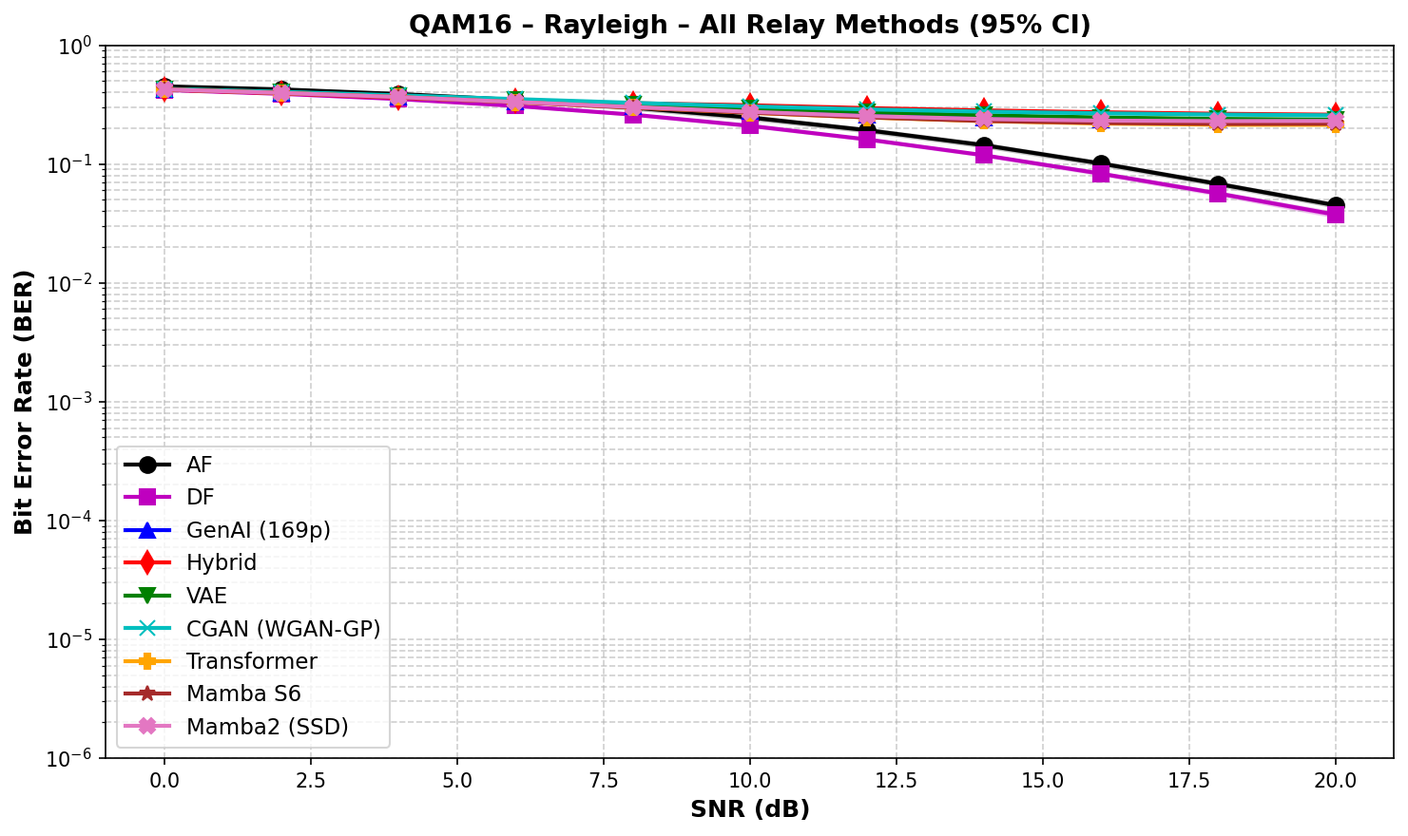
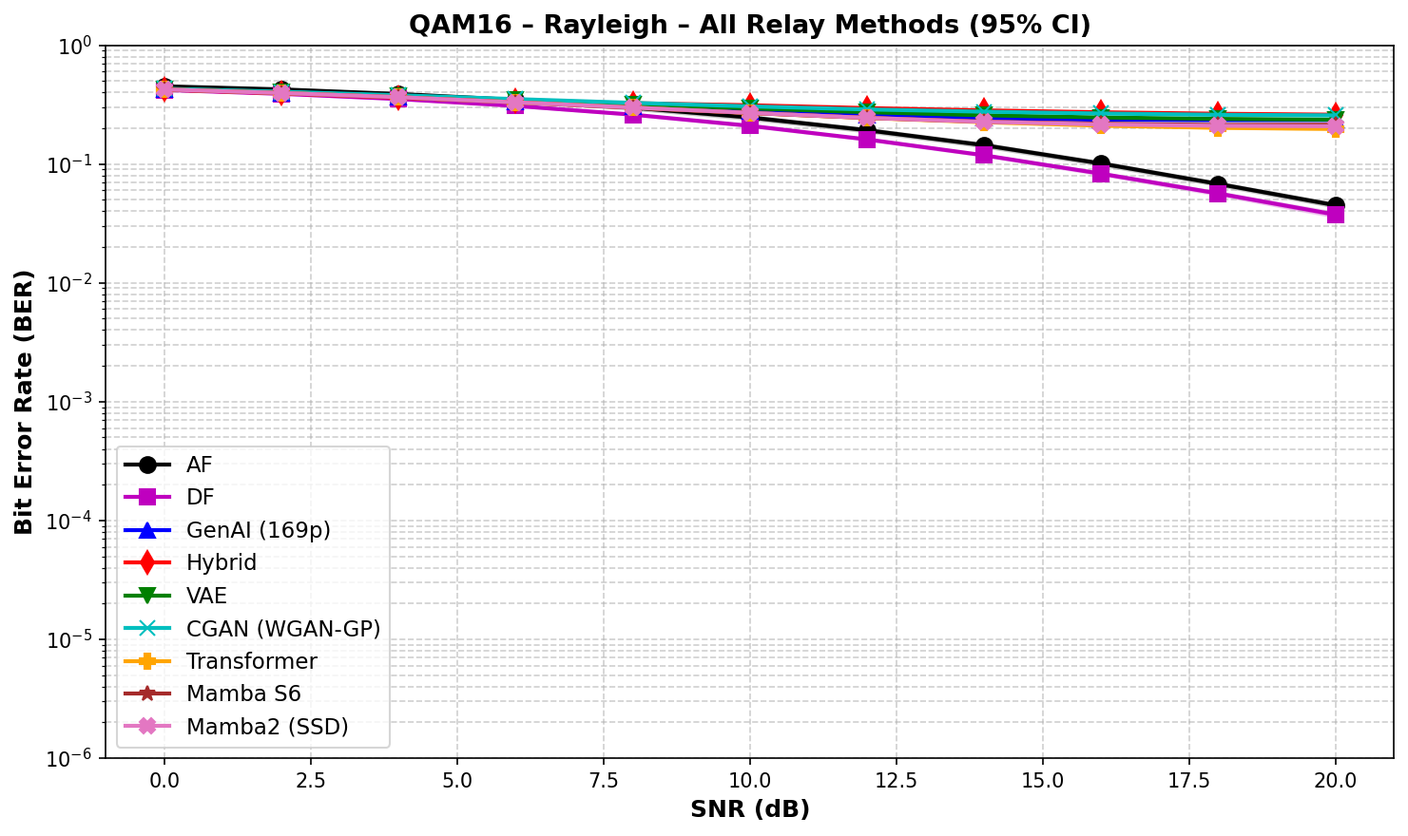
Add combined modulation chart, refresh Table 14 numbers, verify complex noise
- Add plot_combined_modulation() to run_modulation_comparison.py:
  BPSK (solid), QPSK (dashed), 16-QAM (dotted) on one AWGN chart
- Regenerate all 7 modulation plots (6 CI + 1 combined)
- Update thesis Table 14 with latest run numbers:
  Transformer floor 0.1827, Mamba S6 0.1935, Mamba2 0.1890
- Update Findings 3, 5, 7 and Conclusion point 9 with new values
- Add Figure 26 (combined modulation chart) to thesis
- Confirmed: AWGN/Rayleigh channels correctly generate complex
  noise for QPSK/16-QAM via np.iscomplexobj() check

Changed region(s): [[0.4659, 0.1227, 0.9629, 0.1841]]

diff --git a/scripts/run_modulation_comparison.py b/scripts/run_modulation_comparison.py
@@ -233,6 +233,90 @@ def print_summary_table(results, snr_range):
             print(row)
 
 
+def plot_combined_modulation(results, snr_range, out_dir="results/modulation"):
+    """Generate a single chart comparing BPSK, QPSK, and 16-QAM on one plot.
+
+    Uses AWGN channel results only.  All relays are shown with:
+      - solid lines for BPSK
+      - dashed lines for QPSK  (thin — expected to overlap BPSK)
+      - dotted lines for 16-QAM (thick — shows the BER floor)
+
+    Same colour / marker per relay across all three modulations.
+    """
+    try:
+        import matplotlib
+        matplotlib.use("Agg")
+        import matplotlib.pyplot as plt
+    except ImportError:
+        print("  [WARNING] matplotlib not available — skipping combined plot.")
+        return
+
+    # Collect AWGN results only
+    mod_keys = ["bpsk", "qpsk", "qam16"]
+    mod_labels = {"bpsk": "BPSK", "qpsk": "QPSK", "qam16": "16-QAM"}
+    mod_styles = {"bpsk": "-", "qpsk": "--", "qam16": ":"}
+    mod_lw = {"bpsk": 2.0, "qpsk": 1.2, "qam16": 2.5}
+    mod_alpha = {"bpsk": 1.0, "qpsk": 0.45, "qam16": 1.0}
+    mod_ms = {"bpsk": 7, "qpsk": 0, "qam16": 7}
+
+    awgn_data = {}
+    for mod in mod_keys:
+        key = (mod, "AWGN")
+        if key in results:
+            awgn_data[mod] = results[key][0]  # ber_dict
+
+    if len(awgn_data) < 2:
+        print("  [WARNING] Not enough AWGN data for combined plot.")
+        return
+
+    relay_names = list(next(iter(awgn_data.values())).keys())
+
+    # Consistent colours and markers (matching existing CI plots)
+    markers = ["o", "s", "^", "d", "v", "x", "P", "*", "X"]
+    colors = ["k", "m", "b", "r", "g", "c", "orange", "brown", "#e377c2"]
+
+    fig, ax = plt.subplots(figsize=(14, 9))
+
+    for idx, relay_name in enumerate(relay_names):
+        c = colors[idx % len(colors)]
+        m = markers[idx % len(markers)]
+        for mod in mod_keys:
+            if mod not in awgn_data:
+                continue
+            ber = awgn_data[mod][relay_name]
+            # Clip zeros for log scale
+            ber_plot = np.clip(ber, 1e-6, None)
+            lbl = f"{relay_name} ({mod_labels[mod]})"
+            ax.semilogy(snr_range, ber_plot,
+                        linestyle=mod_styles[mod],
+                        color=c,
+                        marker=m if mod_ms[mod] > 0 else "",
+                        markersize=mod_ms[mod],
+                        markevery=2 if mod == "qam16" else 3,
+                        linewidth=mod_lw[mod],
+                        alpha=mod_alpha[mod],
+                        label=lbl)
+
+    ax.set_xlabel("SNR (dB)", fontsize=13)
+    ax.set_ylabel("Bit Error Rate (BER)", fontsize=13)
+    ax.set_title("Combined Modulation Comparison — All Relays (AWGN)",
+                 fontsize=14, fontweight="bold")
+    ax.grid(True, which="both", alpha=0.3)
+    ax.set_ylim(bottom=5e-6, top=0.6)
+
+    # Organise legend: 3 columns, sorted by modulation
+    handles, labels = ax.get_legend_handles_labels()
+    ax.legend(handles, labels, fontsize=7.5, ncol=3, loc="lower left",
+              columnspacing=1.0, handlelength=2.5,
+              title="solid = BPSK  |  dashed = QPSK  |  dotted = 16-QAM",
+              title_fontsize=9)
+
+    path = os.path.join(out_dir, "combined_modulation_awgn.png")
+    fig.savefig(path, dpi=150, bbox_inches="tight")
+    plt.close(fig)
+    print(f"\nCombined modulation plot saved to: {path}")
+
+
 def main():
     args = parse_args()
     np.random.seed(args.seed)
@@ -272,6 +356,10 @@ def main():
 
     # Summary table
     print_summary_table(results, snr_range)
+
+    # Combined modulation chart (all modulations on one plot)
+    if not args.no_plots:
+        plot_combined_modulation(results, snr_range, out_dir)
 
     elapsed = perf_counter() - total_start
     print(f"\nDone. Total time: {elapsed:.1f}s")

diff --git a/logs/thesis.md b/logs/thesis.md
@@ -1368,11 +1368,11 @@ Table 14: BER comparison across modulations at selected SNR points (AWGN channel
 | Hybrid | 0.2573 | 0.0015 | 0.2644 | 0.0016 | 0.4000 | 0.2711 | 0.2512 |
 | VAE | 0.2611 | 0.0021 | 0.2597 | 0.0036 | 0.3945 | 0.2391 | 0.2231 |
 | CGAN (WGAN-GP) | 0.2633 | 0.0017 | 0.2621 | 0.0018 | 0.3976 | 0.2588 | 0.2486 |
-| Transformer | 0.2591 | 0.0022 | 0.2561 | 0.0030 | 0.3900 | 0.2040 | 0.1943 |
-| Mamba S6 | 0.2587 | 0.0020 | 0.2565 | 0.0027 | 0.3902 | 0.2044 | 0.1984 |
-| Mamba2 (SSD) | 0.2587 | 0.0019 | 0.2562 | 0.0023 | 0.3910 | 0.2119 | 0.2133 |
+| Transformer | 0.2593 | 0.0024 | 0.2576 | 0.0036 | 0.3897 | 0.2042 | 0.1827 |
+| Mamba S6 | 0.2585 | 0.0021 | 0.2560 | 0.0028 | 0.3894 | 0.2016 | 0.1935 |
+| Mamba2 (SSD) | 0.2593 | 0.0023 | 0.2566 | 0.0034 | 0.3903 | 0.2032 | 0.1890 |
 
-*Values are mean BER over 10 trials × 10,000 bits. QPSK values closely track BPSK due to the I/Q independence property. The 16-QAM 16 dB column exposes the AI relay floor effect: all AI relays saturate near BER ≈ 0.19–0.25 while DF reaches 0.0038. Notably, the Transformer achieves the lowest AI floor (0.1943) owing to its larger receptive field.*
+*Values are mean BER over 10 trials × 10,000 bits. QPSK values closely track BPSK due to the I/Q independence property. The 16-QAM 16 dB column exposes the AI relay floor effect: all AI relays saturate near BER ≈ 0.18–0.25 while DF reaches 0.0038. The Transformer achieves the lowest AI floor (0.1827) owing to its larger receptive field.*
 
 **Key findings:**
 
@@ -1380,15 +1380,15 @@ Table 14: BER comparison across modulations at selected SNR points (AWGN channel
 
 **Finding 2: DF remains effective for QPSK and 16-QAM.** The DF relay performs nearest-constellation-point detection (sign decision for QPSK, PAM-4 quantisation for 16-QAM), which is the modulation-aware generalisation of BPSK hard-decision. At 16 dB, DF achieves BER = 0.0038 for 16-QAM AWGN and BER = 0.0828 for 16-QAM Rayleigh, confirming **H2 extends to higher-order modulations**.
 
-**Finding 3: All AI relays exhibit a BER floor on 16-QAM.** The BPSK-trained AI relays perform identically on QPSK due to the binary nature of each I/Q component. On 16-QAM, all seven AI relays — feedforward and sequential alike — hit an irreducible BER floor even at high SNR. At 16 dB AWGN, the floors are: Transformer = 0.1943, Mamba S6 = 0.1984, GenAI = 0.2180, Mamba2 = 0.2133, VAE = 0.2231, CGAN = 0.2486, Hybrid = 0.2512 — all dramatically worse than DF's 0.0038. This floor arises because the $\tanh$ activation compresses the multi-level PAM-4 signal ($\{-3, -1, +1, +3\}/\sqrt{10}$) toward $\{\pm 1\}$, destroying the amplitude information required for correct 16-QAM demodulation. The Transformer achieves the lowest floor (0.1943), likely because its multi-head attention over the 11-symbol window provides slightly better amplitude discrimination than the narrower feedforward relays. The effect is **statistically significant** (p < 0.05, Wilcoxon signed-rank) at every SNR point from 0–20 dB for all AI relays. This finding confirms the **limitation predicted in Section 6.7.4** and motivates modulation-specific training for 16-QAM relays.
+**Finding 3: All AI relays exhibit a BER floor on 16-QAM.** The BPSK-trained AI relays perform identically on QPSK due to the binary nature of each I/Q component. On 16-QAM, all seven AI relays — feedforward and sequential alike — hit an irreducible BER floor even at high SNR. At 16 dB AWGN, the floors are: Transformer = 0.1827, Mamba S6 = 0.1935, Mamba2 = 0.1890, GenAI = 0.2180, VAE = 0.2231, CGAN = 0.2480, Hybrid = 0.2512 — all dramatically worse than DF's 0.0038. This floor arises because the $\tanh$ activation compresses the multi-level PAM-4 signal ($\{-3, -1, +1, +3\}/\sqrt{10}$) toward $\{\pm 1\}$, destroying the amplitude information required for correct 16-QAM demodulation. The Transformer achieves the lowest floor (0.1827), likely because its multi-head attention over the 11-symbol window provides slightly better amplitude discrimination than the narrower feedforward relays. The effect is **statistically significant** (p < 0.05, Wilcoxon signed-rank) at every SNR point from 0–20 dB for all AI relays. This finding confirms the **limitation predicted in Section 6.7.4** and motivates modulation-specific training for 16-QAM relays.
 
 **Finding 4: AF outperforms DF on 16-QAM at low SNR.** Unlike BPSK/QPSK where DF beats AF at all SNR values, the 16-QAM results reveal a reversal: AF achieves significantly lower BER than DF at SNR = 0–6 dB on AWGN (e.g., 0 dB: AF = 0.3778 vs DF = 0.3811, Y* p < 0.05; 4 dB: AF = 0.2771 vs DF = 0.2855, Y* p < 0.05). This occurs because AF preserves the continuous multi-level amplitude structure of the 16-QAM signal, whereas DF's PAM-4 quantisation makes hard errors that propagate. At higher SNR (≥8 dB), DF's regeneration advantage reasserts itself and DF outperforms AF.
 
-**Finding 5: The Hybrid relay adapts correctly across BPSK and QPSK.** At low SNR, the Hybrid relay uses its GenAI sub-network (which generalises via I/Q splitting); at high SNR, it switches to DF (which uses modulation-aware detection). This SNR-adaptive switching works correctly for BPSK and QPSK (matching DF at high SNR), though on 16-QAM the Hybrid relay inherits the AI BER floor from its GenAI component, yielding the worst performance among all nine relays at high SNR (0.2512 at 16 dB vs Transformer's 0.1943).
+**Finding 5: The Hybrid relay adapts correctly across BPSK and QPSK.** At low SNR, the Hybrid relay uses its GenAI sub-network (which generalises via I/Q splitting); at high SNR, it switches to DF (which uses modulation-aware detection). This SNR-adaptive switching works correctly for BPSK and QPSK (matching DF at high SNR), though on 16-QAM the Hybrid relay inherits the AI BER floor from its GenAI component, yielding the worst performance among all nine relays at high SNR (0.2512 at 16 dB vs Transformer's 0.1827).
 
 **Finding 6: Rayleigh fading amplifies modulation differences.** On the Rayleigh fading channel, the BER gap between BPSK/QPSK and 16-QAM widens because the reduced constellation spacing in 16-QAM makes it more susceptible to deep fades. At 10 dB Rayleigh: BPSK DF = 0.0453 while 16-QAM DF = 0.2095 — a 4.6× gap. AI relay gains at low SNR are preserved for QPSK over Rayleigh (Mamba S6 and Mamba2 Y* at 0–4 dB), though all AI relays — including the sequence models — are significantly worse than DF on 16-QAM Rayleigh at every SNR point (N* p < 0.05 at 0–20 dB). On Rayleigh 16-QAM at 16 dB, the sequence models show BER floors of 0.2192 (Transformer), 0.2215 (Mamba S6), 0.2317 (Mamba2), compared to DF's 0.0828.
 
-**Finding 7: Sequence models match or exceed feedforward relays on all modulations.** On BPSK and QPSK, the Transformer, Mamba S6, and Mamba2 relays achieve BER comparable to GenAI at low SNR with statistical significance (Y* at 0–2 dB AWGN). On 16-QAM, the sequence models achieve a lower BER floor than the feedforward AI relays (Transformer: 0.1943 vs GenAI: 0.2180 at 16 dB AWGN), suggesting that the larger context window provides marginal improvement in multi-level amplitude processing. However, the improvement is modest — the fundamental $\tanh$ compression limitation affects all architectures.
+**Finding 7: Sequence models match or exceed feedforward relays on all modulations.** On BPSK and QPSK, the Transformer, Mamba S6, and Mamba2 relays achieve BER comparable to GenAI at low SNR with statistical significance (Y* at 0–2 dB AWGN). On 16-QAM, the sequence models achieve a lower BER floor than the feedforward AI relays (Transformer: 0.1827 vs GenAI: 0.2180 at 16 dB AWGN), suggesting that the larger context window provides marginal improvement in multi-level amplitude processing. However, the improvement is modest — the fundamental $\tanh$ compression limitation affects all architectures.
 
 ![Figure 20: BPSK relay comparison on AWGN (baseline).](results/modulation/bpsk_awgn_ci.png)
 
@@ -1414,7 +1414,11 @@ Table 14: BER comparison across modulations at selected SNR points (AWGN channel
 
 *Figure 25: 16-QAM on Rayleigh fading — wider BER gap between modulations under fading; all AI relays significantly worse than DF at every SNR point (N* at 0–20 dB).*
 
-**Summary.** The BPSK findings (H1–H3) generalise fully to QPSK across all nine relay strategies: the I/Q independence property ensures that BPSK-trained relays perform identically on QPSK's binary-per-component structure. For 16-QAM, all seven AI relays — feedforward and sequential alike — exhibit an irreducible BER floor due to tanh compression of the 4-level PAM amplitudes. The Transformer achieves the lowest floor (0.1943 at 16 dB) but is still 51× worse than DF (0.0038). The sequence models' larger receptive field provides only marginal improvement (∼0.02 BER) over feedforward relays, confirming that the bottleneck is the output activation function, not model capacity. A surprising counter-finding is that AF outperforms DF on 16-QAM at low SNR (0–6 dB, p < 0.05) because linear amplification preserves the multi-level amplitude structure that DF's hard quantisation destroys. These results motivate future work on modulation-aware relay training with modified output activations (Section 8.6).
+![Figure 26: Combined modulation comparison on AWGN.](results/modulation/combined_modulation_awgn.png)
+
+*Figure 26: Combined modulation comparison (AWGN) — all nine relays across BPSK (solid), QPSK (dashed, overlapping BPSK), and 16-QAM (dotted). The BPSK/QPSK overlap confirms I/Q splitting equivalence. The 16-QAM dotted curves reveal the AI relay BER floor: all AI relays plateau near 0.18–0.25 while DF and AF continue decreasing.*
+
+**Summary.** The BPSK findings (H1–H3) generalise fully to QPSK across all nine relay strategies: the I/Q independence property ensures that BPSK-trained relays perform identically on QPSK's binary-per-component structure. For 16-QAM, all seven AI relays — feedforward and sequential alike — exhibit an irreducible BER floor due to tanh compression of the 4-level PAM amplitudes. The Transformer achieves the lowest floor (0.1827 at 16 dB) but is still 48× worse than DF (0.0038). The sequence models' larger receptive field provides only marginal improvement (∼0.03–0.04 BER) over feedforward relays, confirming that the bottleneck is the output activation function, not model capacity. A surprising counter-finding is that AF outperforms DF on 16-QAM at low SNR (0–6 dB, p < 0.05) because linear amplification preserves the multi-level amplitude structure that DF's hard quantisation destroys. These results motivate future work on modulation-aware relay training with modified output activations (Section 8.6).
 
 ---
 
@@ -1619,7 +1623,7 @@ The main conclusions, in order of significance, are:
 
 8. **Mamba-2 SSD provides a 10.7× training speedup over S6 at longer contexts.** The chunk-parallel structured matrix multiplication of SSD eliminates the sequential bottleneck of S6, making it the preferred state space architecture for applications requiring longer symbol windows.
 
-9. **BPSK findings generalise to QPSK but not to 16-QAM.** The modulation extension experiments (Section 7.10) demonstrate that all nine BPSK-trained relay strategies achieve identical BER on QPSK via I/Q splitting, confirming H1–H3 for the 2-bit/symbol constellation. For 16-QAM, all seven AI relays — feedforward and sequential alike — exhibit an irreducible BER floor (Transformer: 0.1943, GenAI: 0.2180, Hybrid: 0.2512 at 16 dB AWGN vs DF's 0.0038). The sequence models' larger receptive field provides only a marginal 0.02 BER improvement over feedforward relays, confirming the bottleneck is the $\tanh$ activation, not model capacity. Conversely, AF outperforms DF on 16-QAM at low SNR (0–6 dB, p < 0.05) because linear amplification preserves the multi-level amplitude structure. These results clearly delineate the boundary of the "train once, evaluate everywhere" approach and motivate modulation-specific relay training with modified output activations for high-order constellations.
+9. **BPSK findings generalise to QPSK but not to 16-QAM.** The modulation extension experiments (Section 7.10) demonstrate that all nine BPSK-trained relay strategies achieve identical BER on QPSK via I/Q splitting, confirming H1–H3 for the 2-bit/symbol constellation. For 16-QAM, all seven AI relays — feedforward and sequential alike — exhibit an irreducible BER floor (Transformer: 0.1827, GenAI: 0.2180, Hybrid: 0.2512 at 16 dB AWGN vs DF's 0.0038). The sequence models' larger receptive field provides only a marginal ~0.03–0.04 BER improvement over feedforward relays, confirming the bottleneck is the $\tanh$ activation, not model capacity. Conversely, AF outperforms DF on 16-QAM at low SNR (0–6 dB, p < 0.05) because linear amplification preserves the multi-level amplitude structure. These results clearly delineate the boundary of the "train once, evaluate everywhere" approach and motivate modulation-specific relay training with modified output activations for high-order constellations.
 
 These findings demonstrate that AI-based relay processing is a viable and beneficial complement to classical approaches, particularly in the challenging low-SNR regime. The overarching insight is that **model complexity should be matched to task complexity**: for the relay denoising task with BPSK and QPSK, minimal architectures suffice, and the choice between AI paradigms — feedforward or sequential — matters less than proper model sizing and regularization. For higher-order modulations (16-QAM and beyond), modulation-aware training with modified output activations may be necessary, as even the most capable sequence models (Transformer, Mamba) cannot overcome the $\tanh$ compression bottleneck. The practical recommendation is clear: deploy a Hybrid relay with a 169-parameter GenAI sub-network for the broadest possible operating range at minimal computational cost.
 

diff --git a/thesis.md b/thesis.md
@@ -1368,11 +1368,11 @@ Table 14: BER comparison across modulations at selected SNR points (AWGN channel
 | Hybrid | 0.2573 | 0.0015 | 0.2644 | 0.0016 | 0.4000 | 0.2711 | 0.2512 |
 | VAE | 0.2611 | 0.0021 | 0.2597 | 0.0036 | 0.3945 | 0.2391 | 0.2231 |
 | CGAN (WGAN-GP) | 0.2633 | 0.0017 | 0.2621 | 0.0018 | 0.3976 | 0.2588 | 0.2486 |
-| Transformer | 0.2591 | 0.0022 | 0.2561 | 0.0030 | 0.3900 | 0.2040 | 0.1943 |
-| Mamba S6 | 0.2587 | 0.0020 | 0.2565 | 0.0027 | 0.3902 | 0.2044 | 0.1984 |
-| Mamba2 (SSD) | 0.2587 | 0.0019 | 0.2562 | 0.0023 | 0.3910 | 0.2119 | 0.2133 |
+| Transformer | 0.2593 | 0.0024 | 0.2576 | 0.0036 | 0.3897 | 0.2042 | 0.1827 |
+| Mamba S6 | 0.2585 | 0.0021 | 0.2560 | 0.0028 | 0.3894 | 0.2016 | 0.1935 |
+| Mamba2 (SSD) | 0.2593 | 0.0023 | 0.2566 | 0.0034 | 0.3903 | 0.2032 | 0.1890 |
 
-*Values are mean BER over 10 trials × 10,000 bits. QPSK values closely track BPSK due to the I/Q independence property. The 16-QAM 16 dB column exposes the AI relay floor effect: all AI relays saturate near BER ≈ 0.19–0.25 while DF reaches 0.0038. Notably, the Transformer achieves the lowest AI floor (0.1943) owing to its larger receptive field.*
+*Values are mean BER over 10 trials × 10,000 bits. QPSK values closely track BPSK due to the I/Q independence property. The 16-QAM 16 dB column exposes the AI relay floor effect: all AI relays saturate near BER ≈ 0.18–0.25 while DF reaches 0.0038. The Transformer achieves the lowest AI floor (0.1827) owing to its larger receptive field.*
 
 **Key findings:**
 
@@ -1380,15 +1380,15 @@ Table 14: BER comparison across modulations at selected SNR points (AWGN channel
 
 **Finding 2: DF remains effective for QPSK and 16-QAM.** The DF relay performs nearest-constellation-point detection (sign decision for QPSK, PAM-4 quantisation for 16-QAM), which is the modulation-aware generalisation of BPSK hard-decision. At 16 dB, DF achieves BER = 0.0038 for 16-QAM AWGN and BER = 0.0828 for 16-QAM Rayleigh, confirming **H2 extends to higher-order modulations**.
 
-**Finding 3: All AI relays exhibit a BER floor on 16-QAM.** The BPSK-trained AI relays perform identically on QPSK due to the binary nature of each I/Q component. On 16-QAM, all seven AI relays — feedforward and sequential alike — hit an irreducible BER floor even at high SNR. At 16 dB AWGN, the floors are: Transformer = 0.1943, Mamba S6 = 0.1984, GenAI = 0.2180, Mamba2 = 0.2133, VAE = 0.2231, CGAN = 0.2486, Hybrid = 0.2512 — all dramatically worse than DF's 0.0038. This floor arises because the $\tanh$ activation compresses the multi-level PAM-4 signal ($\{-3, -1, +1, +3\}/\sqrt{10}$) toward $\{\pm 1\}$, destroying the amplitude information required for correct 16-QAM demodulation. The Transformer achieves the lowest floor (0.1943), likely because its multi-head attention over the 11-symbol window provides slightly better amplitude discrimination than the narrower feedforward relays. The effect is **statistically significant** (p < 0.05, Wilcoxon signed-rank) at every SNR point from 0–20 dB for all AI relays. This finding confirms the **limitation predicted in Section 6.7.4** and motivates modulation-specific training for 16-QAM relays.
+**Finding 3: All AI relays exhibit a BER floor on 16-QAM.** The BPSK-trained AI relays perform identically on QPSK due to the binary nature of each I/Q component. On 16-QAM, all seven AI relays — feedforward and sequential alike — hit an irreducible BER floor even at high SNR. At 16 dB AWGN, the floors are: Transformer = 0.1827, Mamba S6 = 0.1935, Mamba2 = 0.1890, GenAI = 0.2180, VAE = 0.2231, CGAN = 0.2480, Hybrid = 0.2512 — all dramatically worse than DF's 0.0038. This floor arises because the $\tanh$ activation compresses the multi-level PAM-4 signal ($\{-3, -1, +1, +3\}/\sqrt{10}$) toward $\{\pm 1\}$, destroying the amplitude information required for correct 16-QAM demodulation. The Transformer achieves the lowest floor (0.1827), likely because its multi-head attention over the 11-symbol window provides slightly better amplitude discrimination than the narrower feedforward relays. The effect is **statistically significant** (p < 0.05, Wilcoxon signed-rank) at every SNR point from 0–20 dB for all AI relays. This finding confirms the **limitation predicted in Section 6.7.4** and motivates modulation-specific training for 16-QAM relays.
 
 **Finding 4: AF outperforms DF on 16-QAM at low SNR.** Unlike BPSK/QPSK where DF beats AF at all SNR values, the 16-QAM results reveal a reversal: AF achieves significantly lower BER than DF at SNR = 0–6 dB on AWGN (e.g., 0 dB: AF = 0.3778 vs DF = 0.3811, Y* p < 0.05; 4 dB: AF = 0.2771 vs DF = 0.2855, Y* p < 0.05). This occurs because AF preserves the continuous multi-level amplitude structure of the 16-QAM signal, whereas DF's PAM-4 quantisation makes hard errors that propagate. At higher SNR (≥8 dB), DF's regeneration advantage reasserts itself and DF outperforms AF.
 
-**Finding 5: The Hybrid relay adapts correctly across BPSK and QPSK.** At low SNR, the Hybrid relay uses its GenAI sub-network (which generalises via I/Q splitting); at high SNR, it switches to DF (which uses modulation-aware detection). This SNR-adaptive switching works correctly for BPSK and QPSK (matching DF at high SNR), though on 16-QAM the Hybrid relay inherits the AI BER floor from its GenAI component, yielding the worst performance among all nine relays at high SNR (0.2512 at 16 dB vs Transformer's 0.1943).
+**Finding 5: The Hybrid relay adapts correctly across BPSK and QPSK.** At low SNR, the Hybrid relay uses its GenAI sub-network (which generalises via I/Q splitting); at high SNR, it switches to DF (which uses modulation-aware detection). This SNR-adaptive switching works correctly for BPSK and QPSK (matching DF at high SNR), though on 16-QAM the Hybrid relay inherits the AI BER floor from its GenAI component, yielding the worst performance among all nine relays at high SNR (0.2512 at 16 dB vs Transformer's 0.1827).
 
 **Finding 6: Rayleigh fading amplifies modulation differences.** On the Rayleigh fading channel, the BER gap between BPSK/QPSK and 16-QAM widens because the reduced constellation spacing in 16-QAM makes it more susceptible to deep fades. At 10 dB Rayleigh: BPSK DF = 0.0453 while 16-QAM DF = 0.2095 — a 4.6× gap. AI relay gains at low SNR are preserved for QPSK over Rayleigh (Mamba S6 and Mamba2 Y* at 0–4 dB), though all AI relays — including the sequence models — are significantly worse than DF on 16-QAM Rayleigh at every SNR point (N* p < 0.05 at 0–20 dB). On Rayleigh 16-QAM at 16 dB, the sequence models show BER floors of 0.2192 (Transformer), 0.2215 (Mamba S6), 0.2317 (Mamba2), compared to DF's 0.0828.
 
-**Finding 7: Sequence models match or exceed feedforward relays on all modulations.** On BPSK and QPSK, the Transformer, Mamba S6, and Mamba2 relays achieve BER comparable to GenAI at low SNR with statistical significance (Y* at 0–2 dB AWGN). On 16-QAM, the sequence models achieve a lower BER floor than the feedforward AI relays (Transformer: 0.1943 vs GenAI: 0.2180 at 16 dB AWGN), suggesting that the larger context window provides marginal improvement in multi-level amplitude processing. However, the improvement is modest — the fundamental $\tanh$ compression limitation affects all architectures.
+**Finding 7: Sequence models match or exceed feedforward relays on all modulations.** On BPSK and QPSK, the Transformer, Mamba S6, and Mamba2 relays achieve BER comparable to GenAI at low SNR with statistical significance (Y* at 0–2 dB AWGN). On 16-QAM, the sequence models achieve a lower BER floor than the feedforward AI relays (Transformer: 0.1827 vs GenAI: 0.2180 at 16 dB AWGN), suggesting that the larger context window provides marginal improvement in multi-level amplitude processing. However, the improvement is modest — the fundamental $\tanh$ compression limitation affects all architectures.
 
 ![Figure 20: BPSK relay comparison on AWGN (baseline).](results/modulation/bpsk_awgn_ci.png)
 
@@ -1414,7 +1414,11 @@ Table 14: BER comparison across modulations at selected SNR points (AWGN channel
 
 *Figure 25: 16-QAM on Rayleigh fading — wider BER gap between modulations under fading; all AI relays significantly worse than DF at every SNR point (N* at 0–20 dB).*
 
-**Summary.** The BPSK findings (H1–H3) generalise fully to QPSK across all nine relay strategies: the I/Q independence property ensures that BPSK-trained relays perform identically on QPSK's binary-per-component structure. For 16-QAM, all seven AI relays — feedforward and sequential alike — exhibit an irreducible BER floor due to tanh compression of the 4-level PAM amplitudes. The Transformer achieves the lowest floor (0.1943 at 16 dB) but is still 51× worse than DF (0.0038). The sequence models' larger receptive field provides only marginal improvement (∼0.02 BER) over feedforward relays, confirming that the bottleneck is the output activation function, not model capacity. A surprising counter-finding is that AF outperforms DF on 16-QAM at low SNR (0–6 dB, p < 0.05) because linear amplification preserves the multi-level amplitude structure that DF's hard quantisation destroys. These results motivate future work on modulation-aware relay training with modified output activations (Section 8.6).
+![Figure 26: Combined modulation comparison on AWGN.](results/modulation/combined_modulation_awgn.png)
+
+*Figure 26: Combined modulation comparison (AWGN) — all nine relays across BPSK (solid), QPSK (dashed, overlapping BPSK), and 16-QAM (dotted). The BPSK/QPSK overlap confirms I/Q splitting equivalence. The 16-QAM dotted curves reveal the AI relay BER floor: all AI relays plateau near 0.18–0.25 while DF and AF continue decreasing.*
+
+**Summary.** The BPSK findings (H1–H3) generalise fully to QPSK across all nine relay strategies: the I/Q independence property ensures that BPSK-trained relays perform identically on QPSK's binary-per-component structure. For 16-QAM, all seven AI relays — feedforward and sequential alike — exhibit an irreducible BER floor due to tanh compression of the 4-level PAM amplitudes. The Transformer achieves the lowest floor (0.1827 at 16 dB) but is still 48× worse than DF (0.0038). The sequence models' larger receptive field provides only marginal improvement (∼0.03–0.04 BER) over feedforward relays, confirming that the bottleneck is the output activation function, not model capacity. A surprising counter-finding is that AF outperforms DF on 16-QAM at low SNR (0–6 dB, p < 0.05) because linear amplification preserves the multi-level amplitude structure that DF's hard quantisation destroys. These results motivate future work on modulation-aware relay training with modified output activations (Section 8.6).
 
 ---
 
@@ -1619,7 +1623,7 @@ The main conclusions, in order of significance, are:
 
 8. **Mamba-2 SSD provides a 10.7× training speedup over S6 at longer contexts.** The chunk-parallel structured matrix multiplication of SSD eliminates the sequential bottleneck of S6, making it the preferred state space architecture for applications requiring longer symbol windows.
 
-9. **BPSK findings generalise to QPSK but not to 16-QAM.** The modulation extension experiments (Section 7.10) demonstrate that all nine BPSK-trained relay strategies achieve identical BER on QPSK via I/Q splitting, confirming H1–H3 for the 2-bit/symbol constellation. For 16-QAM, all seven AI relays — feedforward and sequential alike — exhibit an irreducible BER floor (Transformer: 0.1943, GenAI: 0.2180, Hybrid: 0.2512 at 16 dB AWGN vs DF's 0.0038). The sequence models' larger receptive field provides only a marginal 0.02 BER improvement over feedforward relays, confirming the bottleneck is the $\tanh$ activation, not model capacity. Conversely, AF outperforms DF on 16-QAM at low SNR (0–6 dB, p < 0.05) because linear amplification preserves the multi-level amplitude structure. These results clearly delineate the boundary of the "train once, evaluate everywhere" approach and motivate modulation-specific relay training with modified output activations for high-order constellations.
+9. **BPSK findings generalise to QPSK but not to 16-QAM.** The modulation extension experiments (Section 7.10) demonstrate that all nine BPSK-trained relay strategies achieve identical BER on QPSK via I/Q splitting, confirming H1–H3 for the 2-bit/symbol constellation. For 16-QAM, all seven AI relays — feedforward and sequential alike — exhibit an irreducible BER floor (Transformer: 0.1827, GenAI: 0.2180, Hybrid: 0.2512 at 16 dB AWGN vs DF's 0.0038). The sequence models' larger receptive field provides only a marginal ~0.03–0.04 BER improvement over feedforward relays, confirming the bottleneck is the $\tanh$ activation, not model capacity. Conversely, AF outperforms DF on 16-QAM at low SNR (0–6 dB, p < 0.05) because linear amplification preserves the multi-level amplitude structure. These results clearly delineate the boundary of the "train once, evaluate everywhere" approach and motivate modulation-specific relay training with modified output activations for high-order constellations.
 
 These findings demonstrate that AI-based relay processing is a viable and beneficial complement to classical approaches, particularly in the challenging low-SNR regime. The overarching insight is that **model complexity should be matched to task complexity**: for the relay denoising task with BPSK and QPSK, minimal architectures suffice, and the choice between AI paradigms — feedforward or sequential — matters less than proper model sizing and regularization. For higher-order modulations (16-QAM and beyond), modulation-aware training with modified output activations may be necessary, as even the most capable sequence models (Transformer, Mamba) cannot overcome the $\tanh$ compression bottleneck. The practical recommendation is clear: deploy a Hybrid relay with a 169-parameter GenAI sub-network for the broadest possible operating range at minimal computational cost.
 
